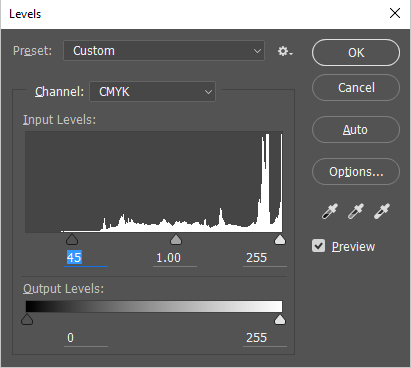
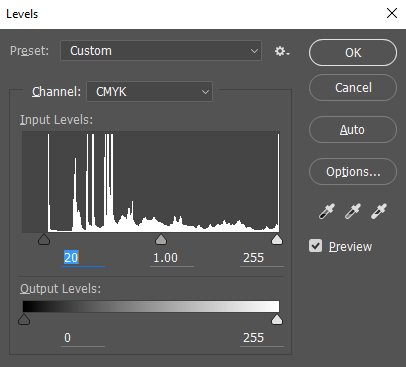
assorted changes

diff --git a/PrismMaps_Procedure.md b/PrismMaps_Procedure.md
@@ -73,7 +73,7 @@ In all that follows, the color - white or magenta - should be decided on a case-
 #### 3.1 Add, Invert, and Color Rendered Data  
 1. Open the rendered prism map, invert it (ctrl-i), and change the file to CMYK color space. **It's crucial that you invert before converting to CMYK!** Add a new background layer and fill it with true black (C=100, M=100, Y=100, K=100).  
 ![levels](https://raw.githubusercontent.com/designedspace/MSFF_Docs/master/Files/Media/3_1_1levels.PNG "Levels")  
-2. Using the levels tool, pull up the shadows (left-most triangle) so that it sits below the first peak - you don't want to lose all detail in the darkest greys. A value of 45 worked well for me.
+2. Using the levels tool, pull up the shadows (left-most triangle) so that it sits below the first peak - you don't want to lose all detail in the darkest greys. A value of 20 worked well for me.
 3. Add a new layer fill it with the MSFF magenta (C=1, M=98, Y=0, K=0) and switch its blend mode to overlay (*Skip this step if making a 'white' map*).  
 4. Using the layer's blending options, create a stroke with a width of 3 pixels using the map color around the rendered data. The resulting image should look like the one below.  
 ![resulting image](https://raw.githubusercontent.com/designedspace/MSFF_Docs/master/Files/Media/3_1_2resulting.PNG "Resulting Image")  
